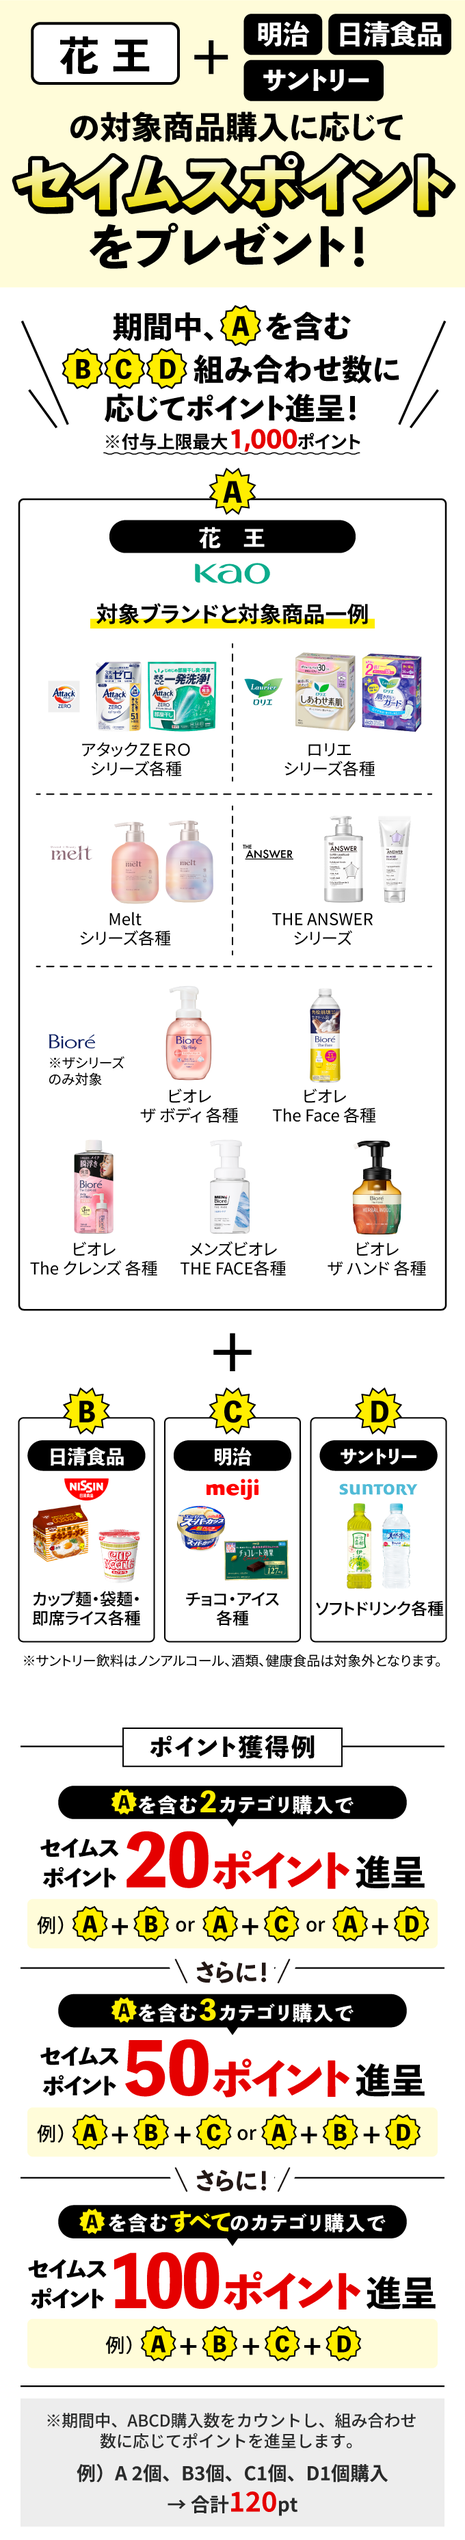
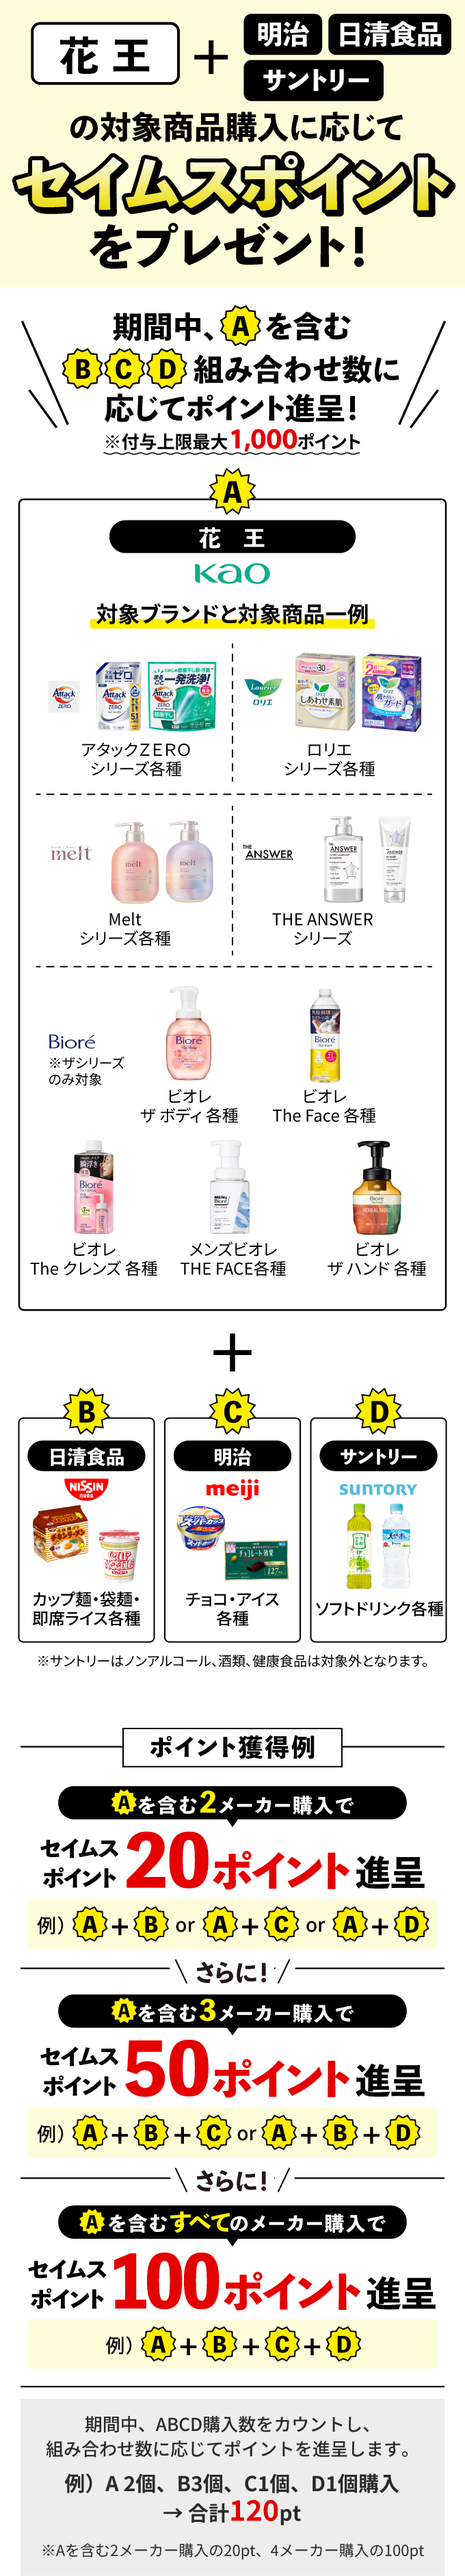
260126 清水 point 修正

diff --git a/point/app.html b/point/app.html
@@ -168,7 +168,7 @@
           </div>
           <dl class="toggle_contents_other mt20 inner88">
             <dt class="toggle_title_other btn">
-              カテゴリ<span class="fs20">A</span>の対象商品
+              花王の対象商品
               <span class="toggle_btn_other"></span>
             </dt>
             <dd class="toggle_contents_other_bk">
@@ -559,7 +559,7 @@
           </div>
           <dl class="toggle_contents_other mt20 inner88">
             <dt class="toggle_title_other btn">
-              カテゴリ<span class="fs20">B</span>の対象商品
+              日清食品の対象商品
               <span class="toggle_btn_other"></span>
             </dt>
             <dd class="toggle_contents_other_bk">
@@ -829,7 +829,7 @@
           </div>
           <dl class="toggle_contents_other mt20 inner88">
             <dt class="toggle_title_other btn">
-              カテゴリ<span class="fs20">C</span>の対象商品
+              明治の対象商品
               <span class="toggle_btn_other"></span>
             </dt>
             <dd class="toggle_contents_other_bk">
@@ -1340,7 +1340,7 @@
           </div>
           <dl class="toggle_contents_other mt20 inner88">
             <dt class="toggle_title_other btn">
-              カテゴリ<span class="fs20">D</span>の対象商品
+              サントリーの対象商品
               <span class="toggle_btn_other"></span>
             </dt>
             <dd class="toggle_contents_other_bk">
@@ -1793,7 +1793,7 @@
 
           <ul class="noteList mt15 inner88">
             <li>⼀部お取り扱いのない商品、店舗がございます。</li>
-            <li>サントリー飲料はノンアルコール、酒類、健康食品は対象外となります。</li>
+            <li>サントリーはノンアルコール、酒類、健康食品は対象外となります。</li>
           </ul>
         </div>
       </section>
@@ -1824,13 +1824,13 @@
                   <img src="img/lp/step02.png" alt="STEP2" />
                 </p>
                 <p class="stepTitleTxt">
-                  対象カテゴリの商品を<br />
+                  対象メーカーの商品を<br />
                   購入する
                 </p>
               </div>
               <div class="stepTxt">
                 <p class="stepDesc">
-                  店舗にてカテゴリA含む2カテゴリ以上ご購⼊ください。<br />
+                  店舗にて花王対象商品を含む2メーカー以上の対象商品をご購⼊ください。<br />
                   ご購⼊時に必ずセイムスアプリ会員証を<br />ご提⽰ください。
                 </p>
                 <ul class="noteList mt10">
@@ -1853,7 +1853,7 @@
               </div>
               <div class="stepTxt">
                 <p class="stepDesc">
-                  購入カテゴリ数に応じて、セイムスポイントをプレゼントいたします。
+                  購入メーカー数に応じて、セイムスポイントをプレゼントいたします。
                 </p>
               </div>
             </div>

diff --git a/point/index.html b/point/index.html
@@ -168,7 +168,7 @@
           </div>
           <dl class="toggle_contents_other mt20 inner88">
             <dt class="toggle_title_other btn">
-              カテゴリ<span class="fs20">A</span>の対象商品
+              花王の対象商品
               <span class="toggle_btn_other"></span>
             </dt>
             <dd class="toggle_contents_other_bk">
@@ -559,7 +559,7 @@
           </div>
           <dl class="toggle_contents_other mt20 inner88">
             <dt class="toggle_title_other btn">
-              カテゴリ<span class="fs20">B</span>の対象商品
+              日清食品の対象商品
               <span class="toggle_btn_other"></span>
             </dt>
             <dd class="toggle_contents_other_bk">
@@ -829,7 +829,7 @@
           </div>
           <dl class="toggle_contents_other mt20 inner88">
             <dt class="toggle_title_other btn">
-              カテゴリ<span class="fs20">C</span>の対象商品
+              明治の対象商品
               <span class="toggle_btn_other"></span>
             </dt>
             <dd class="toggle_contents_other_bk">
@@ -1340,7 +1340,7 @@
           </div>
           <dl class="toggle_contents_other mt20 inner88">
             <dt class="toggle_title_other btn">
-              カテゴリ<span class="fs20">D</span>の対象商品
+              サントリーの対象商品
               <span class="toggle_btn_other"></span>
             </dt>
             <dd class="toggle_contents_other_bk">
@@ -1793,7 +1793,7 @@
 
           <ul class="noteList mt15 inner88">
             <li>⼀部お取り扱いのない商品、店舗がございます。</li>
-            <li>サントリー飲料はノンアルコール、酒類、健康食品は対象外となります。</li>
+            <li>サントリーはノンアルコール、酒類、健康食品は対象外となります。</li>
           </ul>
         </div>
       </section>
@@ -1849,13 +1849,13 @@
                   <img src="img/lp/step02.png" alt="STEP2" />
                 </p>
                 <p class="stepTitleTxt">
-                  対象カテゴリの商品を<br />
+                  対象メーカーの商品を<br />
                   購入する
                 </p>
               </div>
               <div class="stepTxt">
                 <p class="stepDesc">
-                  店舗にてカテゴリA含む2カテゴリ以上ご購⼊ください。<br />
+                  店舗にて花王対象商品を含む2メーカー以上の対象商品をご購⼊ください。<br />
                   ご購⼊時に必ずセイムスアプリ会員証を<br />ご提⽰ください。
                 </p>
                 <ul class="noteList mt10">
@@ -1878,7 +1878,7 @@
               </div>
               <div class="stepTxt">
                 <p class="stepDesc">
-                  購入カテゴリ数に応じて、セイムスポイントをプレゼントいたします。
+                  購入メーカー数に応じて、セイムスポイントをプレゼントいたします。
                 </p>
               </div>
             </div>

diff --git a/point/mypage.html b/point/mypage.html
@@ -224,7 +224,7 @@
             </div>
             <dl class="toggle_contents_other mt20 inner88">
               <dt class="toggle_title_other btn">
-                カテゴリ<span class="fs20">A</span>の対象商品
+                花王の対象商品
                 <span class="toggle_btn_other"></span>
               </dt>
               <dd class="toggle_contents_other_bk">
@@ -615,7 +615,7 @@
             </div>
             <dl class="toggle_contents_other mt20 inner88">
               <dt class="toggle_title_other btn">
-                カテゴリ<span class="fs20">B</span>の対象商品
+                日清食品の対象商品
                 <span class="toggle_btn_other"></span>
               </dt>
               <dd class="toggle_contents_other_bk">
@@ -885,7 +885,7 @@
             </div>
             <dl class="toggle_contents_other mt20 inner88">
               <dt class="toggle_title_other btn">
-                カテゴリ<span class="fs20">C</span>の対象商品
+                明治の対象商品
                 <span class="toggle_btn_other"></span>
               </dt>
               <dd class="toggle_contents_other_bk">
@@ -1396,7 +1396,7 @@
             </div>
             <dl class="toggle_contents_other mt20 inner88">
               <dt class="toggle_title_other btn">
-                カテゴリ<span class="fs20">D</span>の対象商品
+                サントリーの対象商品
                 <span class="toggle_btn_other"></span>
               </dt>
               <dd class="toggle_contents_other_bk">
@@ -1865,7 +1865,7 @@
 
             <ul class="noteList mt15 inner88">
               <li>⼀部お取り扱いのない商品、店舗がございます。</li>
-              <li>サントリー飲料はノンアルコール、酒類、健康食品は対象外となります。</li>
+              <li>サントリーはノンアルコール、酒類、健康食品は対象外となります。</li>
             </ul>
           </div>
         </section>
